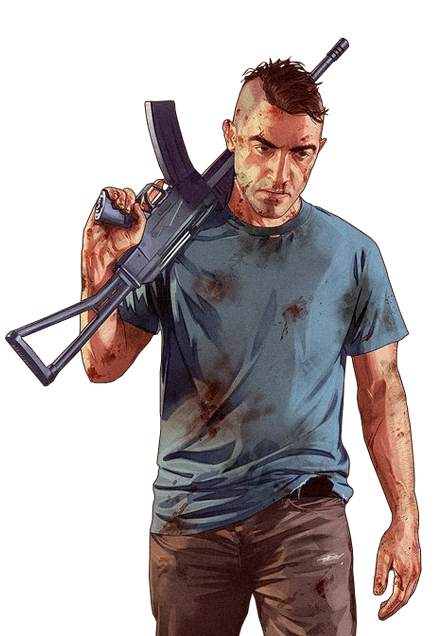
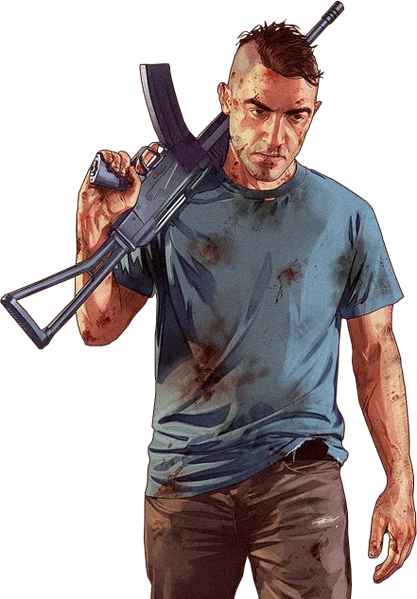
feat(ui): update Fortnite & CS2 images to fortnite2.png and cs22.png, use updated valorant image, and calibrate uniform character heights

diff --git a/src/components/ui/GameSelectorModal.tsx b/src/components/ui/GameSelectorModal.tsx
@@ -66,7 +66,7 @@ const GAME_PANELS: VerticalGamePanel[] = [
     title: "Fortnite",
     tagline: "Unreal Engine 5 & Anti-Cheat",
     engineBadge: "UNREAL ENGINE 5",
-    characterImg: "/fotos/fortniteplayers_opt.png",
+    characterImg: "/fotos/fortnite2.png",
     gradientClass: "from-sky-400/30 via-fuchsia-600/20 to-[#120026]/90",
     glowColor: "rgba(168, 85, 247, 0.45)",
     accentHex: "#D946EF",
@@ -83,7 +83,7 @@ const GAME_PANELS: VerticalGamePanel[] = [
     title: "Counter-Strike 2",
     tagline: "Source 2 Sub-Tick Precision",
     engineBadge: "SOURCE 2 SUB-TICK",
-    characterImg: "/fotos/cs2_players.svg",
+    characterImg: "/fotos/cs22.png",
     gradientClass: "from-cyan-500/30 via-slate-800/40 to-[#ea580c]/35",
     glowColor: "rgba(234, 88, 12, 0.45)",
     accentHex: "#F97316",
